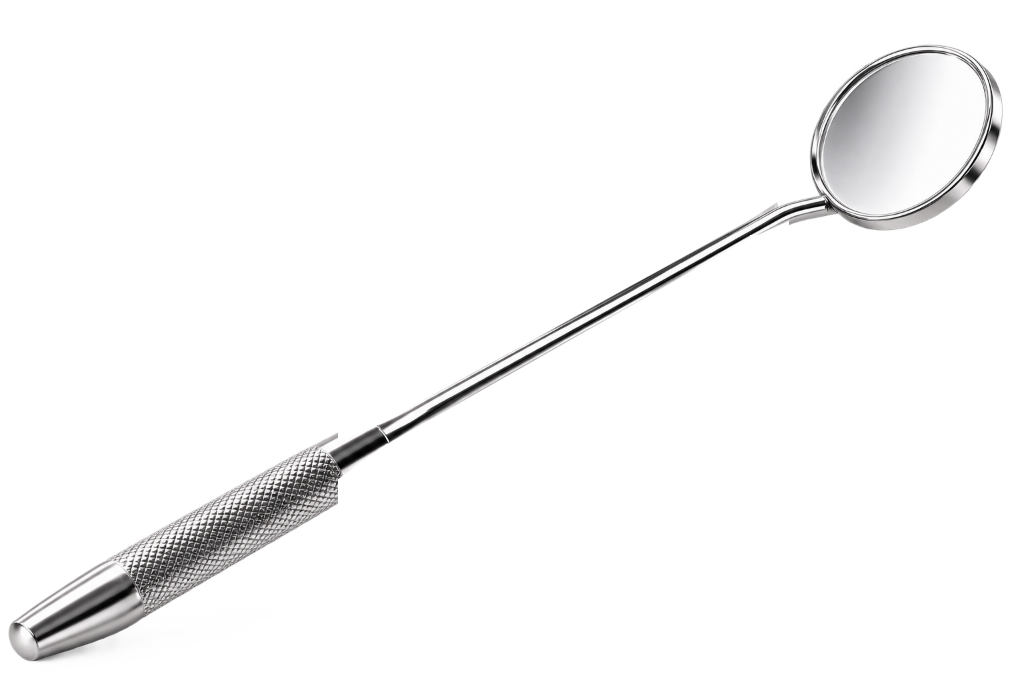
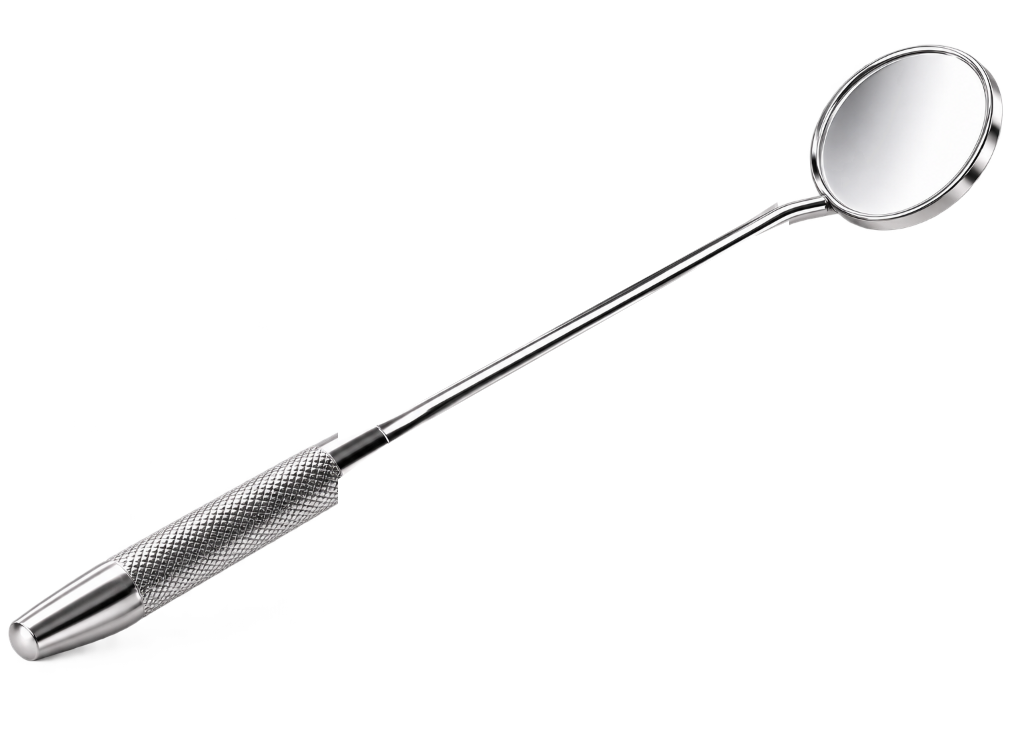
Clone full hero section composition with approach card, pointer line, subcopy, scroll indicator and floor reflection

Changed region(s): [[0.0, 0.0616, 1.0, 0.9853]]

diff --git a/views/portal/landing.php b/views/portal/landing.php
@@ -153,20 +153,22 @@ $currentUser = Session::user();
         <nav id="mainHeroNav"
             class="fixed top-0 left-0 w-full z-40 bg-white border-b border-stone-200 px-6 sm:px-10 lg:px-14 py-3.5 sm:py-4 flex items-center justify-between transition-shadow duration-200 rounded-none">
             <!-- Brand with Official Logo -->
-            <a href="<?= BASE_URL ?>/index.php" id="brandLogoLink" onclick="handleBrandClick(event)"
-                class="flex items-center space-x-3 cursor-pointer select-none group" title="Return to top">
-                <div
-                    class="w-10 h-10 rounded-none bg-black flex items-center justify-center p-1.5 shadow-xs flex-shrink-0">
-                    <img src="<?= BASE_URL ?>/assets/images/logo.png" alt="SDC Dental Care"
-                        class="w-full h-full object-contain">
-                </div>
-                <div>
-                    <h1 class="text-base font-extrabold text-black tracking-tight leading-none uppercase">SDC DENTAL
-                    </h1>
-                    <p class="text-[9px] text-stone-500 font-mono tracking-[0.2em] uppercase font-bold mt-1">Clinical
-                        Atelier</p>
-                </div>
-            </a>
+            <div class="flex items-center lg:pr-12 xl:pr-20 lg:border-r lg:border-stone-200/80">
+                <a href="<?= BASE_URL ?>/index.php" id="brandLogoLink" onclick="handleBrandClick(event)"
+                    class="flex items-center space-x-3 cursor-pointer select-none group" title="Return to top">
+                    <div
+                        class="w-10 h-10 rounded-none bg-black flex items-center justify-center p-1.5 shadow-xs flex-shrink-0">
+                        <img src="<?= BASE_URL ?>/assets/images/logo.png" alt="SDC Dental Care"
+                            class="w-full h-full object-contain">
+                    </div>
+                    <div>
+                        <h1 class="text-base font-extrabold text-black tracking-tight leading-none uppercase">SDC DENTAL
+                        </h1>
+                        <p class="text-[9px] text-stone-500 font-mono tracking-[0.2em] uppercase font-bold mt-1">Clinical
+                            Atelier</p>
+                    </div>
+                </a>
+            </div>
 
             <!-- Navigation Links (Matching Image 1 Style & Spacing) -->
             <div
@@ -178,7 +180,7 @@ $currentUser = Session::user();
             </div>
 
             <!-- Right Actions (Staff Login & Appointment CTA with zero rounded borders) -->
-            <div class="flex items-center space-x-4">
+            <div class="flex items-center space-x-4 lg:pl-10 xl:pl-14 lg:border-l lg:border-stone-200/80">
                 <div class="hidden xl:flex items-center space-x-2 text-[11px] font-mono text-stone-500 mr-2">
                     <i data-lucide="phone" class="w-3.5 h-3.5 text-stone-400"></i>
                     <span>+63 917 111 2233</span>
@@ -206,7 +208,7 @@ $currentUser = Session::user();
             </div>
         </nav>
 
-        <!-- 2. Main Hero Canvas: Arda Guler Inspired Multi-Layer Cutout Composition (Zero Round Borders) -->
+        <!-- 2. Main Hero Canvas: Cloned Multi-Layer 3D Porcelain Tooth & Mirror Composition -->
         <div
             class="w-full flex-1 min-h-[640px] lg:min-h-0 relative flex flex-col justify-between px-6 sm:px-10 lg:px-14 py-6 lg:py-8 overflow-hidden">
 
@@ -220,12 +222,21 @@ $currentUser = Session::user();
             <span
                 class="absolute bottom-2 right-6 sm:right-10 text-stone-300 font-mono text-xs select-none pointer-events-none z-10">+</span>
 
+            <!-- Technical Leader Line connecting Tooth Target Dot to 01 / OUR APPROACH Card (Desktop) -->
+            <svg class="hidden lg:block absolute inset-0 w-full h-full pointer-events-none z-[12]" viewBox="0 0 1440 760" preserveAspectRatio="none">
+                <polyline points="858,205 1122,205 1152,162 1175,162" fill="none" stroke="#DFDDD8" stroke-width="1.2" />
+            </svg>
+            <!-- Target Node Dot on Right Crown of Molar Tooth -->
+            <div class="hidden lg:flex absolute left-[59.6%] top-[27%] -translate-x-1/2 -translate-y-1/2 w-4 h-4 rounded-full bg-white border border-stone-300 shadow-xs items-center justify-center pointer-events-none z-[15]">
+                <span class="w-1.5 h-1.5 rounded-full bg-stone-800"></span>
+            </div>
+
             <!-- LAYER 1 (z-10): 3D Porcelain Molar Tooth Base & Glossy Studio Floor Reflection (Sits Behind SDC DENTAL CARE) -->
             <div
-                class="relative lg:absolute lg:inset-y-0 lg:left-[44%] lg:-translate-x-1/2 z-10 flex items-end justify-center pointer-events-none select-none my-4 lg:my-0 h-[380px] sm:h-[460px] lg:h-full">
+                class="relative lg:absolute lg:inset-y-0 lg:left-[46%] lg:-translate-x-1/2 z-10 flex items-end justify-center pointer-events-none select-none my-4 lg:my-0 h-[380px] sm:h-[460px] lg:h-full">
                 <img src="<?= BASE_URL ?>/assets/images/dental_tooth_mirror_base.png"
                     alt="SDC 3D Porcelain Molar Tooth and Dental Mirror"
-                    class="h-[96%] w-auto max-w-none object-contain rounded-none">
+                    class="h-[97%] w-auto max-w-none object-contain rounded-none">
             </div>
 
             <!-- LAYER 2 (z-20): Giant Monumental Full-Width Typography (In Front of White Tooth, Behind Chrome Mirror Stem) -->
@@ -239,21 +250,21 @@ $currentUser = Session::user();
 
             <!-- LAYER 3 (z-[25]): Foreground Chrome Dental Mirror Stem & Head (Slices Diagonally In Front of N and T) -->
             <div
-                class="hidden lg:flex lg:absolute lg:inset-y-0 lg:left-[44%] lg:-translate-x-1/2 z-[25] items-end justify-center pointer-events-none select-none lg:h-full">
+                class="hidden lg:flex lg:absolute lg:inset-y-0 lg:left-[46%] lg:-translate-x-1/2 z-[25] items-end justify-center pointer-events-none select-none lg:h-full">
                 <img src="<?= BASE_URL ?>/assets/images/dental_mirror_foreground.png"
                     alt=""
                     aria-hidden="true"
-                    class="h-[96%] w-auto max-w-none object-contain filter drop-shadow-[0_10px_14px_rgba(0,0,0,0.28)] rounded-none">
+                    class="h-[97%] w-auto max-w-none object-contain filter drop-shadow-[0_10px_14px_rgba(0,0,0,0.28)] rounded-none">
             </div>
 
-            <!-- LAYER 3A (z-30): TOP ROW (Top-Left Large Display Headline matching Reference Image) -->
+            <!-- LAYER 3A (z-30): TOP ROW (Top-Left Display Headline + Subcopy & Top-Right 01 / OUR APPROACH Card) -->
             <div
-                class="relative z-30 flex flex-col lg:flex-row items-start justify-between gap-6 sm:pl-8 lg:pl-16 xl:pl-24 lg:pt-6">
+                class="relative z-30 flex flex-col lg:flex-row items-start justify-between gap-6 sm:pl-6 lg:pl-10 xl:pl-16 lg:pt-3">
 
-                <!-- Top-Left: Large 3-Line Staggered Display Headline (Above Giant Text) -->
+                <!-- Top-Left: Large 3-Line Staggered Display Headline + Editorial Subcopy -->
                 <div class="bg-white/95 lg:bg-transparent p-2 lg:p-0 rounded-none">
                     <h1
-                        class="text-4xl sm:text-5xl lg:text-[3.4rem] xl:text-[4rem] font-black tracking-tight uppercase leading-[0.92] text-black font-sans">
+                        class="text-4xl sm:text-5xl lg:text-[3.35rem] xl:text-[3.85rem] font-black tracking-tight uppercase leading-[0.92] text-black font-sans">
                         <span class="block pl-6 sm:pl-10">CRAFTING</span>
                         <span class="block">CONFIDENT</span>
                         <span class="inline-flex items-center pl-6 sm:pl-10 gap-4">
@@ -264,13 +275,60 @@ $currentUser = Session::user();
                             </span>
                         </span>
                     </h1>
+
+                    <!-- Short Divider Dash + Sub-Headline & Body Copy (Cloned from Reference) -->
+                    <div class="max-w-[270px] sm:max-w-[295px]">
+                        <div class="w-6 h-[1.5px] bg-stone-400 mt-4 mb-2.5"></div>
+                        <h3 class="text-sm sm:text-[15px] font-bold text-stone-950 tracking-tight leading-snug">
+                            Dentistry, designed around you.
+                        </h3>
+                        <p class="text-xs sm:text-[12.5px] text-stone-500 leading-relaxed mt-1 font-normal">
+                            Gentle care, modern techniques, and<br>personalized treatment for every smile.
+                        </p>
+                    </div>
                 </div>
+
+                <!-- Top-Right: 01 / OUR APPROACH Floating Callout Card (Cloned from Reference) -->
+                <a href="#standards"
+                    class="hidden lg:block w-[235px] xl:w-[248px] bg-white border border-stone-200/80 shadow-[0_18px_40px_rgba(0,0,0,0.06)] p-5 lg:mr-2 xl:mr-6 lg:mt-3 hover:border-stone-400 transition group/approach">
+                    <div class="flex items-center justify-between text-[9px] font-mono tracking-[0.2em] uppercase text-stone-500 font-semibold">
+                        <span>01 / OUR APPROACH</span>
+                        <i data-lucide="arrow-up-right" class="w-3.5 h-3.5 text-stone-700 transition-transform group-hover/approach:translate-x-0.5 group-hover/approach:-translate-y-0.5"></i>
+                    </div>
+                    <h4 class="text-base xl:text-[17px] font-bold text-stone-950 leading-[1.2] tracking-tight mt-2.5">
+                        Precision meets<br>comfort.
+                    </h4>
+                    <p class="text-[11px] text-stone-400 leading-relaxed mt-2 font-normal">
+                        Thoughtful dentistry.<br>Exceptional attention to detail.
+                    </p>
+                </a>
 
             </div>
 
-            <!-- LAYER 3B (z-30): BOTTOM ROW (Bottom-Right High-Contrast Black Booking Card) -->
+            <!-- LAYER 3B (z-30): BOTTOM ROW (Bottom-Left SCROLL TO EXPLORE & Bottom-Right High-Contrast Black Booking Card) -->
             <div
-                class="relative z-30 flex flex-col lg:flex-row items-stretch lg:items-end justify-end gap-6 mt-6 lg:mt-0">
+                class="relative z-30 flex flex-col lg:flex-row items-stretch lg:items-end justify-between gap-6 mt-6 lg:mt-0">
+
+                <!-- Bottom-Left: SCROLL TO EXPLORE Mouse Indicator & Stepped Arrow Line (Cloned from Reference) -->
+                <a href="#services" class="hidden lg:inline-flex flex-col items-start group/scroll select-none mb-1">
+                    <div class="flex items-center space-x-3">
+                        <!-- Minimalist Mouse Icon -->
+                        <div class="w-[18px] h-[28px] rounded-full border border-stone-400 flex justify-center pt-1.5 group-hover/scroll:border-black transition">
+                            <span class="w-[1.5px] h-2 bg-stone-500 group-hover/scroll:bg-black"></span>
+                        </div>
+                        <span class="text-[9px] font-sans font-bold tracking-[0.18em] uppercase text-stone-700 group-hover/scroll:text-black transition">
+                            SCROLL TO EXPLORE
+                        </span>
+                    </div>
+                    <!-- Horizontal Line bending down to Arrow -->
+                    <div class="flex items-start mt-2.5 pl-0.5">
+                        <div class="w-28 h-px bg-stone-300"></div>
+                        <div class="flex flex-col items-center -ml-px">
+                            <div class="w-px h-2 bg-stone-300"></div>
+                            <span class="text-[9px] leading-none text-stone-400 -mt-0.5">&darr;</span>
+                        </div>
+                    </div>
+                </a>
 
                 <!-- Bottom-Right: Sleek Solid Black Status & Booking Card (Inspo: Bottom-Right Dark Match Card, Zero Round Borders) -->
                 <div
